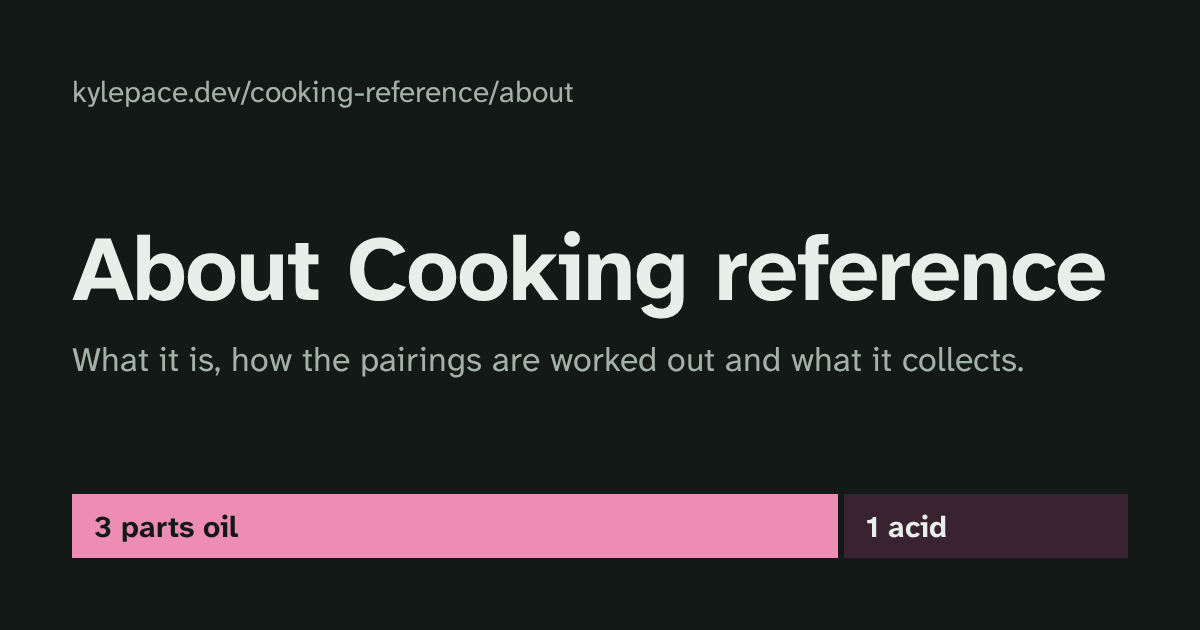
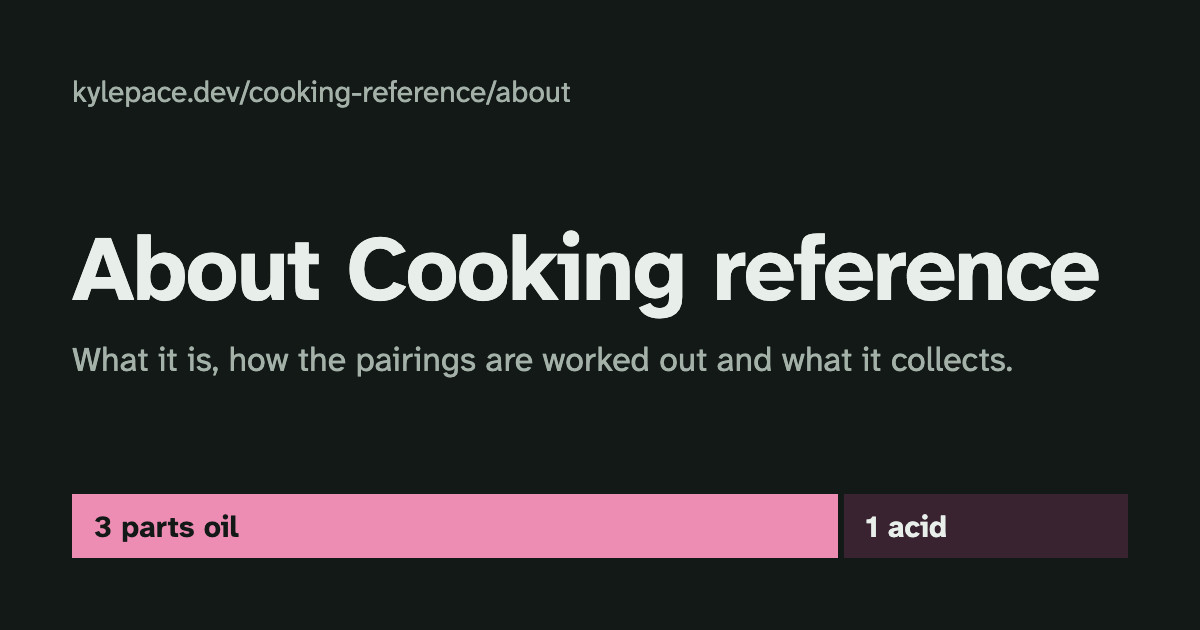
Page titles, descriptions and the share card say "blends and sauces" to match the section

diff --git a/design/og.html b/design/og.html
@@ -19,7 +19,7 @@ h1{margin:0;font-size:92px;line-height:1.02;letter-spacing:-0.02em;font-weight:7
   <div class="site">kylepace.dev/cooking-reference</div>
   <div>
     <h1>Cooking reference</h1>
-    <p class="sub">What goes with what, the ratios behind the classics, and spice blends.</p>
+    <p class="sub">What goes with what, the ratios behind the classics, and blends and sauces.</p>
   </div>
   <div class="rows" aria-hidden="true">
     <div class="row"><span>Soy sauce</span><div class="bar"><i style="width:88%"></i></div></div>

diff --git a/design/PLAN.md b/design/PLAN.md
@@ -54,7 +54,7 @@ phone                          wide
 +----------------------+       +---------------------------------------------+
 | < More labs   About  |       | < More labs                          About  |
 | Cooking reference    |       | Cooking reference                           |
-| Pairings Ratios Blends|      | Pairings   Ratios   Spice blends            |
+| Pairings Ratios Blends|      | Pairings   Ratios   Blends and sauces       |
 | [find an ingredient] |       | [search, picks,  | Goes with pork           |
 | Goes with pork       |       |  cuisine view]   | Strong  ===== soy sauce  |
 | ==== soy sauce       |       |                  | Good    ===   ginger     |
